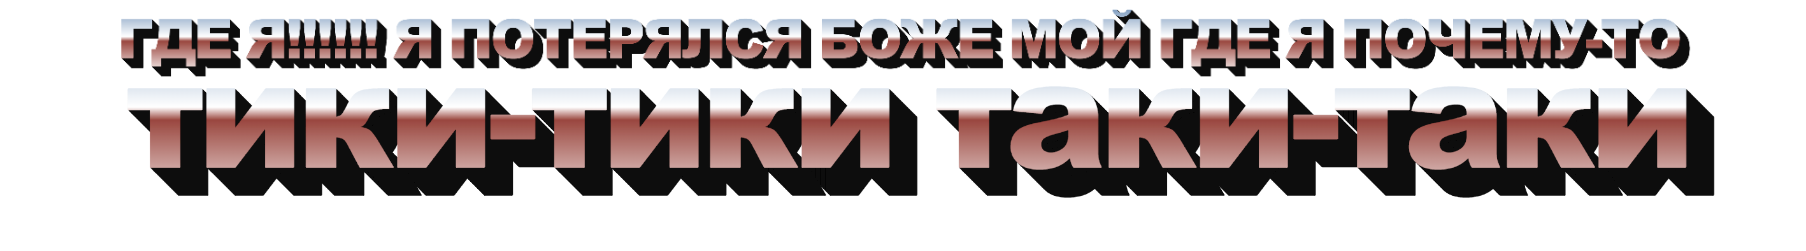
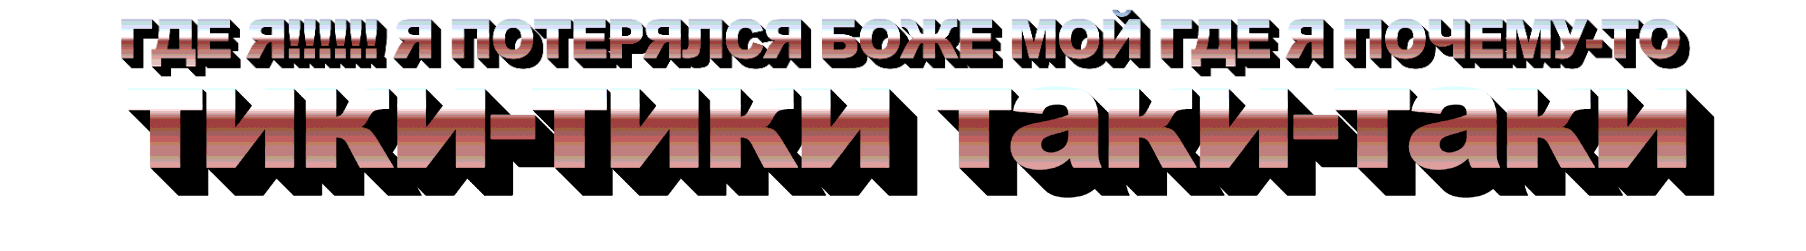
TEST UPDATE!@!!!

diff --git a/site_woowz11_2.html b/site_woowz11_2.html
@@ -1,10 +1,9 @@
 <!DOCTYPE HTML>
 <meta charset="utf-8">
-<title>Woowz Search.</title>
-<link rel="icon" type="image/x-icon" href="source\search2.ico">
+<title>Search</title>
 <style>
 body {
-  background-image: url("source/brick2.jpg");
+  background-image: url("source/brick3.jpg");
 }
 
 .title{
@@ -38,7 +37,7 @@ a{
   transform: translate(-50%, -50%);
 }
 </style>
-<center><img class="title" src="source/title2.png" width="480" height="64"></center>
+<center><img class="title" src="source/title4.png" width="960" height="128"></center>
 <p></p>
 <center><input type="text" class="search" placeholder="Введите название страницы..." size="50" id="search"></center>
 <p></p>
@@ -51,7 +50,7 @@ a{
 
 <center><div class="container">
   <img src="source\background.png" height = "50" width="250">
-  <div class="centered"><font color="black" id="checkthis" class="bottomtext">Copyright &copy;1999 Made Woowz11</font></div>
+  <div class="centered"><font color="black" id="checkthis" class="bottomtext">&copy;2003 Woowz11</font></div>
 </div></center>
 
 <script src="source\search.js">

diff --git a/source/search.js b/source/search.js
@@ -8,7 +8,8 @@ function serch() {
   else if(ser=="nil"){window.open("null.html");}
   else if(ser=="openprojectsource"){window.open("openprojectsource.html");}
   else if(ser=="skeletonparty"){window.open("skull-party!.html");}
-  else if(ser=="woowzsite1999"){window.open("site_woowz11_2.html");}
+  else if(ser=="woowzsite2003"){window.open("site_woowz11_2.html");}
+  else if(ser=="woowzsite1999"){window.open("index.html");}
   else if(ser=="woowzsite1997"){window.open("site_woowz11.html");}
   else if(ser=="list"){window.open("list.html");}
   else if(ser=="all"){window.open("list.html");}
@@ -22,6 +23,7 @@ function serch() {
   else if(ser=="bloodeye"){window.open("blood_eye_co.html");}
   else if(ser=="bloodeyenew"){window.open("blood_eye_co_new.html");}
   else if(ser=="forest"){window.open("forest.html");}
+  else if(ser==":d"){window.open("img.html");}
   else if(ser=="openprojectsourcedownload"){window.open("openprojectsource_download.html");}
   else if(ser=="")
   {

diff --git a/list.html b/list.html
@@ -30,6 +30,9 @@ input.addEventListener("keypress", function(event) {
 <p></p>
 <a href="index.html">Woowz Site 1999</a><p></p>
 <font>woowzsite1999</font>
+<p></p>
+<a href="site_woowz11_2.html">Woowz Site 2003</a><p></p>
+<font>woowzsite2003</font>
 <p>-----------------------------</p>
 <a href="null.html">Null Webite</a><p></p>
 <font>[Empty Symbol], null, nil</font>
@@ -60,4 +63,7 @@ input.addEventListener("keypress", function(event) {
 <p></p>
 <a href="blood_eye_co_new.html">New Blood Eye Website</a><p></p>
 <font>bloodeyenew</font>
+<p>-----------------------------</p>
+<a href="img.html">:D</a><p></p>
+<font>:D</font>
 <p>-----------------------------</p>

diff --git a/img.html b/img.html
@@ -1,0 +1,13 @@
+<!DOCTYPE HTML>
+<meta charset="utf-8">
+<title>:D</title>
+<link rel="icon" type="image/x-icon" href="source\griffer.ico">
+<style>
+body{
+	  background-image: url("source/hi.jpg");
+	  background-attachment: fixed;
+      background-size: 100% 100%;
+}
+</style>
+
+<center><img style="margin-top: 5000%;" src="source\pet.gif"></center>

diff --git a/skull-party!.html b/skull-party!.html
@@ -1,6 +1,7 @@
 <!DOCTYPE HTML>
 <meta charset="utf-8">
 <title>SKULL PARTY!!!</title>
+<link rel="icon" type="image/x-icon" href="source\skull.ico">
 <style>
 body {
   background-image: url("source/esqueleto.gif");

diff --git a/site_woowz11.html b/site_woowz11.html
@@ -1,6 +1,7 @@
 <!DOCTYPE HTML>
 <meta charset="utf-8">
 <title>Woowz Main Page!</title>
+<link rel="icon" type="image/x-icon" href="source\search.ico">
 <style>
 body {
   background-image: url("source/brick.jpg");
